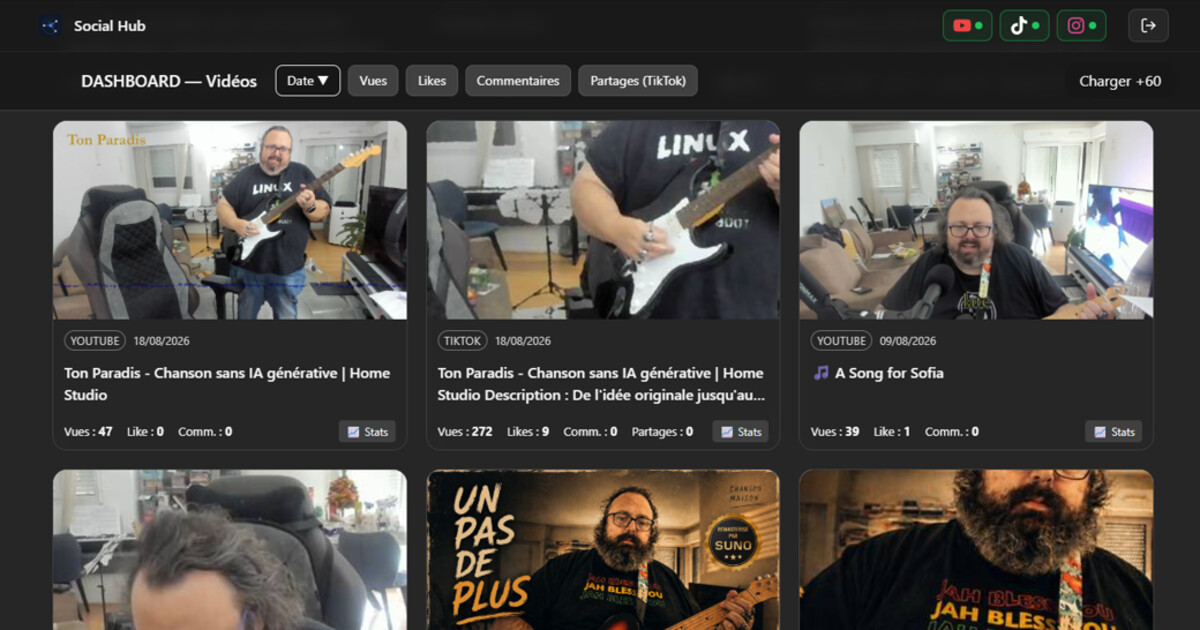
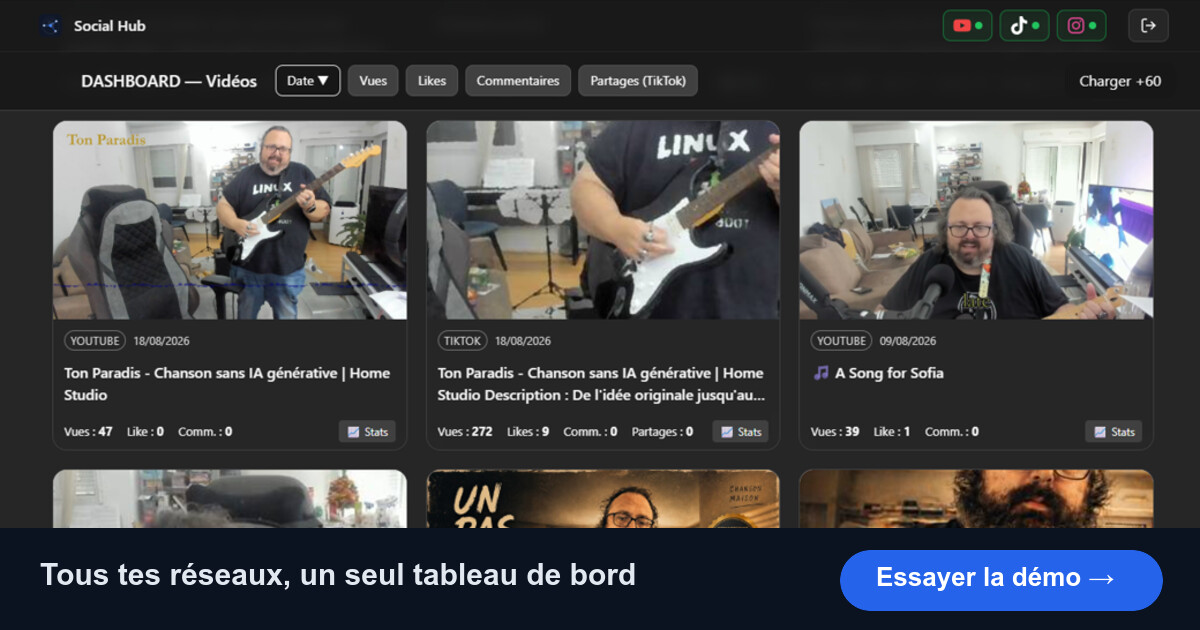
Aligne la marque sur « Social Hub » et ajuste les métadonnées sociales
Retours de l'analyseur Open Graph : titres et descriptions hors des seuils de
troncature, titre de document trop court, image sans appel à l'action.

- deux longueurs distinctes : le titre du document et la meta description
  exploitent l'espace des résultats de recherche (55 et 140 caractères),
  les variantes sociales restent sous les seuils de troncature
  (51 caractères pour og:title et twitter:title, 102 pour og:description)
- og.jpg : bandeau avec la promesse et un bouton « Essayer la démo »
- « Social-Hub » devient « Social Hub » partout : titre de la page d'accueil,
  textes de présentation en français et en anglais, données de démonstration

Changed region(s): [[0.0, 0.8143, 1.0, 1.0]]

diff --git a/components/home/HomeContent.tsx b/components/home/HomeContent.tsx
@@ -15,13 +15,13 @@ const copy = {
     hero: "Le tableau de bord unique pour suivre les statistiques de tes vidéos YouTube, TikTok et Instagram — vues, likes, commentaires, partages — sans jongler entre les apps.",
     howTitle: "Comment ça marche",
     howBody:
-      "Un créateur qui publie sur plusieurs plateformes doit habituellement ouvrir chaque application pour connaître ses chiffres. Social-Hub rassemble tout au même endroit : un seul tableau de bord listant toutes tes vidéos, triable par date, vues, likes, commentaires et partages, avec un historique conservé automatiquement.",
+      "Un créateur qui publie sur plusieurs plateformes doit habituellement ouvrir chaque application pour connaître ses chiffres. Social Hub rassemble tout au même endroit : un seul tableau de bord listant toutes tes vidéos, triable par date, vues, likes, commentaires et partages, avec un historique conservé automatiquement.",
     howReadOnly:
-      "Social-Hub est strictement en lecture seule : le service consulte tes statistiques, il ne publie, ne modifie et ne supprime jamais rien sur tes comptes.",
+      "Social Hub est strictement en lecture seule : le service consulte tes statistiques, il ne publie, ne modifie et ne supprime jamais rien sur tes comptes.",
     dataTitle: "Utilisation de tes données YouTube/TikTok/Instagram",
     dataBody: (
       <>
-        Lorsque tu connectes un compte, Social-Hub demande uniquement des
+        Lorsque tu connectes un compte, Social Hub demande uniquement des
         accès en lecture seule&nbsp;: pour YouTube{" "}
         <code className="text-neutral-200">youtube.readonly</code> et{" "}
         <code className="text-neutral-200">yt-analytics.readonly</code>, pour
@@ -59,13 +59,13 @@ const copy = {
     hero: "The single dashboard to track your YouTube, TikTok and Instagram video stats — views, likes, comments, shares — without juggling between apps.",
     howTitle: "How it works",
     howBody:
-      "Creators who publish across several platforms usually have to open each app separately to check their numbers. Social-Hub brings it all together in one place: a single dashboard listing all your videos, sortable by date, views, likes, comments and shares, with history kept automatically.",
+      "Creators who publish across several platforms usually have to open each app separately to check their numbers. Social Hub brings it all together in one place: a single dashboard listing all your videos, sortable by date, views, likes, comments and shares, with history kept automatically.",
     howReadOnly:
-      "Social-Hub is strictly read-only: the service reads your statistics, it never posts, edits or deletes anything on your accounts.",
+      "Social Hub is strictly read-only: the service reads your statistics, it never posts, edits or deletes anything on your accounts.",
     dataTitle: "Use of your YouTube/TikTok/Instagram data",
     dataBody: (
       <>
-        When you connect an account, Social-Hub only requests read-only
+        When you connect an account, Social Hub only requests read-only
         scopes: for YouTube{" "}
         <code className="text-neutral-200">youtube.readonly</code> and{" "}
         <code className="text-neutral-200">yt-analytics.readonly</code>, for
@@ -104,7 +104,7 @@ export default function HomeContent({ canSeeDashboard }: { canSeeDashboard: bool
       {/* Hero */}
       <div className="rounded-2xl p-8 border border-neutral-800 bg-neutral-900/60 backdrop-blur">
         <div className="mb-3 flex flex-col gap-3 sm:flex-row sm:items-start sm:justify-between">
-          <h1 className="text-2xl font-semibold text-neutral-100">Social-Hub</h1>
+          <h1 className="text-2xl font-semibold text-neutral-100">Social Hub</h1>
           <LangToggle lang={lang} onChange={setLang} label={t.langLabel} />
         </div>
         <p className="opacity-80 text-neutral-300 mb-6">{t.hero}</p>

diff --git a/app/layout.tsx b/app/layout.tsx
@@ -18,37 +18,44 @@ import Matomo from "@/components/analytics/Matomo";
 // ce domaine dans les aperçus et la balise canonique.
 const SITE_URL = "https://social-hub.fr";
 
-const SITE_TAGLINE =
-  "Social Hub — toutes tes stats YouTube, TikTok et Instagram sur un seul écran";
+// Deux longueurs, deux usages. Le titre du document vise les 50-60 caractères
+// utiles dans les résultats de recherche ; les titres sociaux restent sous 60
+// (Facebook, LinkedIn) et sous 70 (X), seuils au-delà desquels ils tronquent.
+const PAGE_TITLE = "Social Hub — stats YouTube, TikTok et Instagram réunies";
+const SOCIAL_TITLE = "Tes stats YouTube, TikTok et Instagram sur un écran";
 
-const SITE_DESCRIPTION =
-  "Tes vidéos YouTube, TikTok et Instagram dans un seul tableau de bord : vues, likes, commentaires et leur évolution dans le temps. Strictement en lecture seule.";
+// Même logique : la meta description exploite ses ~155 caractères, alors que
+// les aperçus sociaux n'en affichent souvent que ~125 sur mobile.
+const SEO_DESCRIPTION =
+  "Réunis tes vidéos YouTube, TikTok et Instagram dans un seul tableau de bord : vues, likes, commentaires et leur évolution. En lecture seule.";
+const SOCIAL_DESCRIPTION =
+  "Toutes tes vidéos et leurs statistiques au même endroit. Lecture seule : rien n'est publié ni modifié.";
 
 export const metadata: Metadata = {
   metadataBase: new URL(SITE_URL),
-  title: "Social Hub",
-  description: SITE_DESCRIPTION,
+  title: PAGE_TITLE,
+  description: SEO_DESCRIPTION,
   alternates: { canonical: "/" },
   openGraph: {
     type: "website",
     locale: "fr_FR",
     url: "/",
     siteName: "Social Hub",
-    title: SITE_TAGLINE,
-    description: SITE_DESCRIPTION,
+    title: SOCIAL_TITLE,
+    description: SOCIAL_DESCRIPTION,
     images: [
       {
         url: "/og.jpg",
         width: 1200,
         height: 630,
-        alt: "Le tableau de bord Social Hub : des vidéos YouTube et TikTok côte à côte avec leurs vues, likes et commentaires.",
+        alt: "Le tableau de bord Social Hub : des vidéos YouTube et TikTok côte à côte avec leurs vues, likes et commentaires, et le bouton « Essayer la démo ».",
       },
     ],
   },
   twitter: {
     card: "summary_large_image",
-    title: SITE_TAGLINE,
-    description: SITE_DESCRIPTION,
+    title: SOCIAL_TITLE,
+    description: SOCIAL_DESCRIPTION,
     images: ["/og.jpg"],
   },
 };

diff --git a/data/demo-videos.ts b/data/demo-videos.ts
@@ -13,7 +13,7 @@ export type DemoVideo = {
 const demoVideos: DemoVideo[] = [
   {
     id: "y1",
-    title: "Intro au projet Social-Hub",
+    title: "Intro au projet Social Hub",
     description:
       "Présentation du tableau de bord : agréger vidéos YouTube, TikTok et Instagram au même endroit et suivre les KPI dans le temps.\n\nChapitres, liens et sources dans la description complète — visible ici au survol de la carte.",
     thumbnailUrl: "/thumbs/1.jpg",
